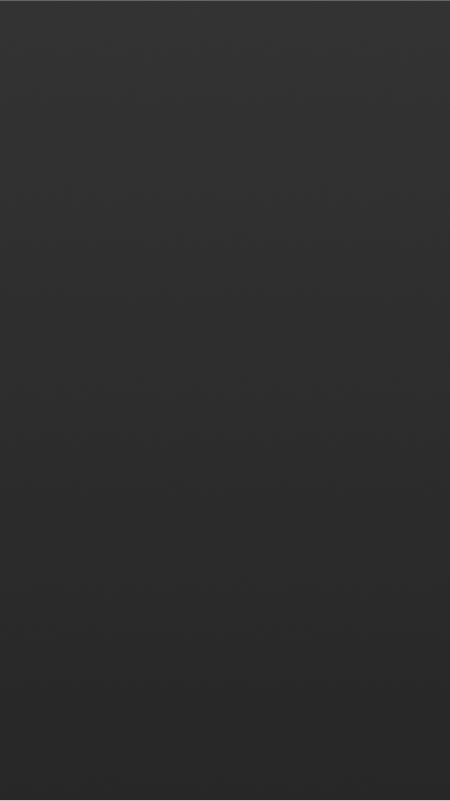
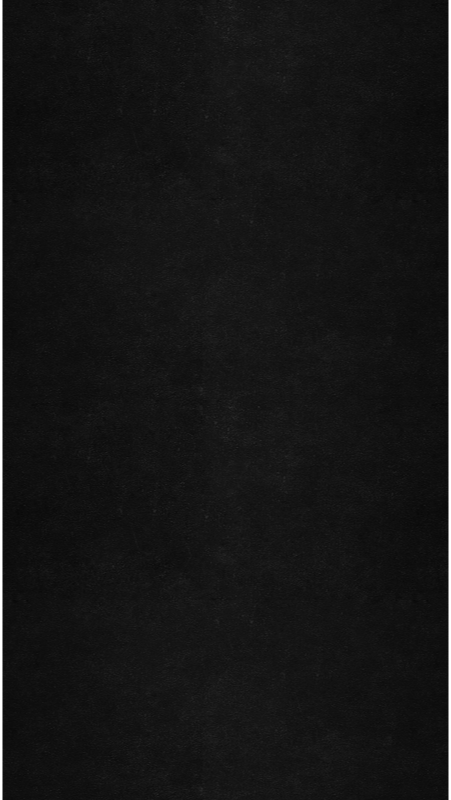
New assets

diff --git a/src/components/Highway/actors/resources.ts b/src/components/Highway/actors/resources.ts
@@ -1,4 +1,4 @@
-import { ImageSource } from "excalibur";
+import { ImageSource, ImageWrapping } from "excalibur";
 
 import noteCircleCyan from "../../../assets/NoteCircleCyan.png";
 import noteCircleOrange from "../../../assets/NoteCircleOrange.png";
@@ -10,6 +10,9 @@ import noteRectPurple from "../../../assets/NoteRectPurple.png";
 import noteRectRed from "../../../assets/NoteRectRed.png";
 import noteKick from "../../../assets/NoteKick.png";
 
+import highwayBg from "../../../assets/HighwayBg.png";
+
+
 const noteCircleCyanImg = new ImageSource(noteCircleCyan);
 const noteCircleOrangeImg = new ImageSource(noteCircleOrange);
 const noteCirclePurpleImg = new ImageSource(noteCirclePurple);
@@ -19,6 +22,8 @@ const noteRectGreenImg = new ImageSource(noteRectGreen);
 const noteRectPurpleImg = new ImageSource(noteRectPurple);
 const noteRectRedImg = new ImageSource(noteRectRed);
 const noteKickImg = new ImageSource(noteKick);
+
+const highwayBgImg = new ImageSource(highwayBg, {wrapping: {x: ImageWrapping.Clamp, y: ImageWrapping.Repeat}});
 
 export const Resources = {
   NoteCircleCyan: noteCircleCyanImg,
@@ -30,4 +35,6 @@ export const Resources = {
   NoteRectPurple: noteRectPurpleImg,
   NoteRectRed: noteRectRedImg,
   NoteKick: noteKickImg,
+
+  HighwayBg: highwayBgImg,
 } as const;

diff --git a/src/components/Highway/actors/HighwayBg.ts b/src/components/Highway/actors/HighwayBg.ts
@@ -1,0 +1,34 @@
+import { Actor, Engine, Sprite, vec, Vector } from "excalibur";
+import { GAME_CONFIG } from "../config";
+import BaseNote from "./BaseNote";
+import { Resources } from "./resources";
+
+class HighwayBg extends Actor {
+  constructor() {
+    super({
+      pos: vec(0, -GAME_CONFIG.height),
+      width: GAME_CONFIG.width,
+      height: GAME_CONFIG.height * 2,
+      anchor: Vector.Zero,
+      z: 0,
+    });
+  }
+
+  public update(engine: Engine, elapsed: number): void {
+    super.update(engine, elapsed);
+    let newYOffset = this.graphics.offset.y + BaseNote.NOTE_SPEED * elapsed;
+
+    if (newYOffset >= GAME_CONFIG.height) {
+      newYOffset -= GAME_CONFIG.height;
+    }
+    this.graphics.offset = vec(this.graphics.offset.x, newYOffset);
+  }
+
+  public onInitialize() {
+    this.graphics.use(
+      Sprite.from(Resources.HighwayBg, { height: GAME_CONFIG.height * 2 })
+    );
+  }
+}
+
+export default HighwayBg;

diff --git a/src/components/Highway/scenes/MainScene.ts b/src/components/Highway/scenes/MainScene.ts
@@ -12,6 +12,7 @@ import Tom2Note from "../actors/Tom2Note";
 import FloorTomNote from "../actors/FloorTomNote";
 import Crash17Note from "../actors/Crash17Note";
 import Ride17Note from "../actors/Ride17Note";
+import HighwayBg from "../actors/HighwayBg";
 
 type ProcessedNote = {
   time: number;
@@ -146,6 +147,9 @@ class MainScene extends Scene {
 
       this.notes[batchNumber].push(newNote);
     });
+
+    // Add the BG
+    this.add(new HighwayBg());
 
     // start all tracks
     [...engine.songTracks, ...engine.drumTracks].forEach((track, index) => {

diff --git a/src/components/Highway/Highway.module.css b/src/components/Highway/Highway.module.css
@@ -1,12 +1,13 @@
 .highway {
-    display: flex;
-    justify-content: center;
-    align-items: start;
-    height: 100%;
+  display: flex;
+  justify-content: center;
+  align-items: start;
+  height: 100%;
 }
 
 .highway canvas {
   /* 3d effect */
   transform: perspective(1000px) rotateX(30deg);
   margin-top: -80px;
+  box-shadow: 0 30px 150px rgb(86, 48, 114, 0.5);
 }

diff --git a/src/components/Highway/engine.ts b/src/components/Highway/engine.ts
@@ -17,7 +17,7 @@ class HighwayEngine extends Engine {
       canvasElement: canvas,
       resolution: { width: GAME_CONFIG.width, height: GAME_CONFIG.height },
       viewport: { width: GAME_CONFIG.width, height: GAME_CONFIG.height },
-      backgroundColor: Color.Black,
+      backgroundColor: Color.fromHex("#111111"),
     });
 
     this.song = song;

diff --git a/src/components/Highway/actors/BaseNote.ts b/src/components/Highway/actors/BaseNote.ts
@@ -5,7 +5,7 @@ class BaseNote extends Actor {
   static ANIM_DURATION = 2000; // note anim duration in ms
   static NOTE_SPEED = GAME_CONFIG.height / BaseNote.ANIM_DURATION;
 
-  constructor(pos: Vector, z: number = 1) {
+  constructor(pos: Vector, z: number = 10) {
     super({
       pos,
       anchor: Vector.Half,

diff --git a/src/components/Highway/actors/KickNote.ts b/src/components/Highway/actors/KickNote.ts
@@ -4,7 +4,7 @@ import { Resources } from "./resources";
 
 class KickNote extends BaseNote {
   constructor(pos: Vector) {
-    super(pos, 0);
+    super(pos, 5);
   }
 
   public onInitialize() {
